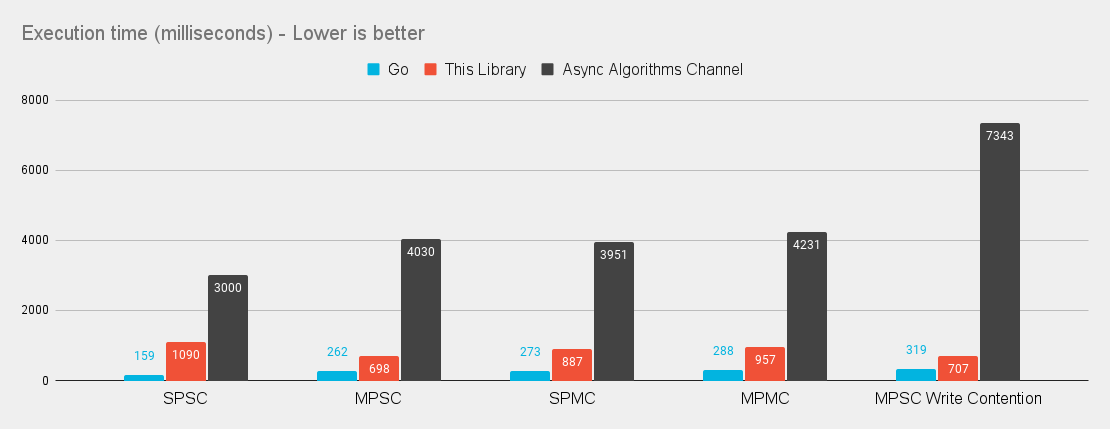
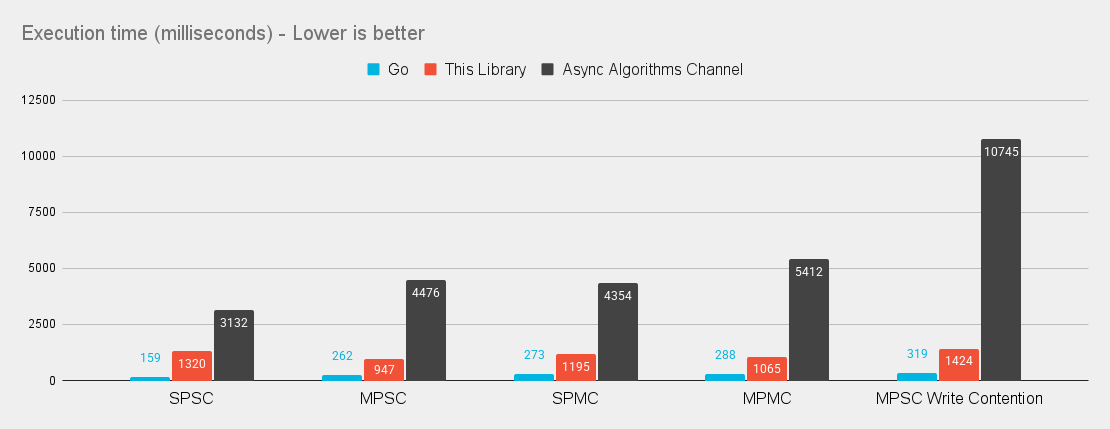
Update benchmarks for Swift 6 and macOS 15.3.1

diff --git a/Benchmarks/Sources/Benchmarks/main.swift b/Benchmarks/Sources/Benchmarks/main.swift
@@ -259,9 +259,11 @@ func runMPMCAsyncAlg<T: Initializable>(_ type: T.Type, producers: Int, consumers
         let a = AsyncChannel<T>()
         
         async let writeGroup: () = withTaskGroup(of: Void.self) { group in
-            group.addTask {
-                for _ in 0 ..< writes / producers {
-                    await a.send(T())
+            for _ in 0..<producers {
+                group.addTask {
+                    for _ in 0 ..< writes / producers {
+                        await a.send(T())
+                    }
                 }
             }
         }

diff --git a/Benchmarks/Readme.md b/Benchmarks/Readme.md
@@ -36,54 +36,54 @@ The below results are from running the whole benchmark suit which covers multipl
 
 Test | Type | Execution Time(ms)
 -----|------|---------------
-SPSC | `Int` | `1090`
-MPSC | `Int` | `698`
-SPMC | `Int` | `887`
-MPMC | `Int` | `957`
-MPSC Write Contention | `Int` | `707`
-SPSC Buffered(100) | `Int` | `604`
-MPSC Buffered(100) | `Int` | `639`
-SPMC Buffered(100) | `Int` | `642`
-MPMC Buffered(100) | `Int` | `960`
-MPSC Write Contention Buffered(100) | `Int` | `1095`
-SyncRW | `Int` | `1505`
-Channel multi-select | `Int` | `1172`
-SPSC | `String` | `1299`
-MPSC | `String` | `830`
-SPMC | `String` | `911`
-MPMC | `String` | `1001`
-MPSC Write Contention | `String` | `828`
-SPSC Buffered(100) | `String` | `725`
-MPSC Buffered(100) | `String` | `703`
-SPMC Buffered(100) | `String` | `691`
-MPMC Buffered(100) | `String` | `1014`
-MPSC Write Contention Buffered(100) | `String` | `1152`
-SyncRW | `String` | `1703`
-Channel multi-select | `String` | `1190`
-SPSC | `ValueData` | `1167`
-MPSC | `ValueData` | `772`
-SPMC | `ValueData` | `904`
-MPMC | `ValueData` | `977`
-MPSC Write Contention | `ValueData` | `768`
-SPSC Buffered(100) | `ValueData` | `496`
-MPSC Buffered(100) | `ValueData` | `652`
-SPMC Buffered(100) | `ValueData` | `645`
-MPMC Buffered(100) | `ValueData` | `987`
-MPSC Write Contention Buffered(100) | `ValueData` | `1158`
-SyncRW | `ValueData` | `1485`
-Channel multi-select | `ValueData` | `1176`
-SPSC | `RefData` | `1306`
-MPSC | `RefData` | `933`
-SPMC | `RefData` | `969`
-MPMC | `RefData` | `1219`
-MPSC Write Contention | `RefData` | `946`
-SPSC Buffered(100) | `RefData` | `675`
-MPSC Buffered(100) | `RefData` | `729`
-SPMC Buffered(100) | `RefData` | `742`
-MPMC Buffered(100) | `RefData` | `1220`
-MPSC Write Contention Buffered(100) | `RefData` | `1221`
-SyncRW | `RefData` | `1685`
-Channel multi-select | `RefData` | `1198`
+SPSC | `Int` | `1320`
+MPSC | `Int` | `947`
+SPMC | `Int` | `1195`
+MPMC | `Int` | `1065`
+MPSC Write Contention | `Int` | `1424`
+SPSC Buffered(100) | `Int` | `446`
+MPSC Buffered(100) | `Int` | `799`
+SPMC Buffered(100) | `Int` | `787`
+MPMC Buffered(100) | `Int` | `1071`
+MPSC Write Contention Buffered(100) | `Int` | `1891`
+SyncRW | `Int` | `1752`
+Channel multi-select | `Int` | `1972`
+SPSC | `String` | `1527`
+MPSC | `String` | `1154`
+SPMC | `String` | `1264`
+MPMC | `String` | `1117`
+MPSC Write Contention | `String` | `1544`
+SPSC Buffered(100) | `String` | `623`
+MPSC Buffered(100) | `String` | `895`
+SPMC Buffered(100) | `String` | `873`
+MPMC Buffered(100) | `String` | `1139`
+MPSC Write Contention Buffered(100) | `String` | `1988`
+SyncRW | `String` | `1793`
+Channel multi-select | `String` | `1980`
+SPSC | `ValueData` | `1386`
+MPSC | `ValueData` | `1083`
+SPMC | `ValueData` | `1338`
+MPMC | `ValueData` | `1124`
+MPSC Write Contention | `ValueData` | `1598`
+SPSC Buffered(100) | `ValueData` | `550`
+MPSC Buffered(100) | `ValueData` | `890`
+SPMC Buffered(100) | `ValueData` | `787`
+MPMC Buffered(100) | `ValueData` | `1085`
+MPSC Write Contention Buffered(100) | `ValueData` | `1947`
+SyncRW | `ValueData` | `1741`
+Channel multi-select | `ValueData` | `1970`
+SPSC | `RefData` | `1566`
+MPSC | `RefData` | `1262`
+SPMC | `RefData` | `1251`
+MPMC | `RefData` | `1338`
+MPSC Write Contention | `RefData` | `1599`
+SPSC Buffered(100) | `RefData` | `753`
+MPSC Buffered(100) | `RefData` | `947`
+SPMC Buffered(100) | `RefData` | `959`
+MPMC Buffered(100) | `RefData` | `1348`
+MPSC Write Contention Buffered(100) | `RefData` | `2078`
+SyncRW | `RefData` | `1996`
+Channel multi-select | `RefData` | `2003`
 
 
 ## Async Channels vs Async Algorithms AsyncChannel
@@ -92,26 +92,26 @@ Apple has their own channel implementation in the [swift-async-algorithms packag
 
 Test | Type | Execution Time(ms)
 -----|------|---------------
-SPSC Async alg | `Int` | `3000`
-MPSC Async alg | `Int` | `4030`
-SPMC Async alg | `Int` | `3951`
-MPMC Async alg | `Int` | `4231`
-MPSC Async alg Write Contention | `Int` | `7343`
-SPSC Async alg | `String` | `3021`
-MPSC Async alg | `String` | `4083`
-SPMC Async alg | `String` | `3937`
-MPMC Async alg | `String` | `4313`
-MPSC Async alg Write Contention | `String` | `21004`
-SPSC Async alg | `ValueData` | `3006`
-MPSC Async alg | `ValueData` | `4052`
-SPMC Async alg | `ValueData` | `3911`
-MPMC Async alg | `ValueData` | `4275`
-MPSC Async alg Write Contention | `ValueData` | `19684`
-SPSC Async alg | `RefData` | `3026`
-MPSC Async alg | `RefData` | `4064`
-SPMC Async alg | `RefData` | `3929`
-MPMC Async alg | `RefData` | `4285`
-MPSC Async alg Write Contention | `RefData` | `20992`
+SPSC Async alg | `Int` | `3132`
+MPSC Async alg | `Int` | `4476`
+SPMC Async alg | `Int` | `4354`
+MPMC Async alg | `Int` | `5412`
+MPSC Async alg Write Contention | `Int` | `10745`
+SPSC Async alg | `String` | `3024`
+MPSC Async alg | `String` | `4669`
+SPMC Async alg | `String` | `4437`
+MPMC Async alg | `String` | `5474`
+MPSC Async alg Write Contention | `String` | `21313`
+SPSC Async alg | `ValueData` | `2951`
+MPSC Async alg | `ValueData` | `4534`
+SPMC Async alg | `ValueData` | `4420`
+MPMC Async alg | `ValueData` | `5768`
+MPSC Async alg Write Contention | `ValueData` | `23013`
+SPSC Async alg | `RefData` | `3173`
+MPSC Async alg | `RefData` | `5031`
+SPMC Async alg | `RefData` | `4597`
+MPMC Async alg | `RefData` | `5568`
+MPSC Async alg Write Contention | `RefData` | `20117`
 
 Async algorithms channel seems to fall apart with write contention on non integer types. 
 
